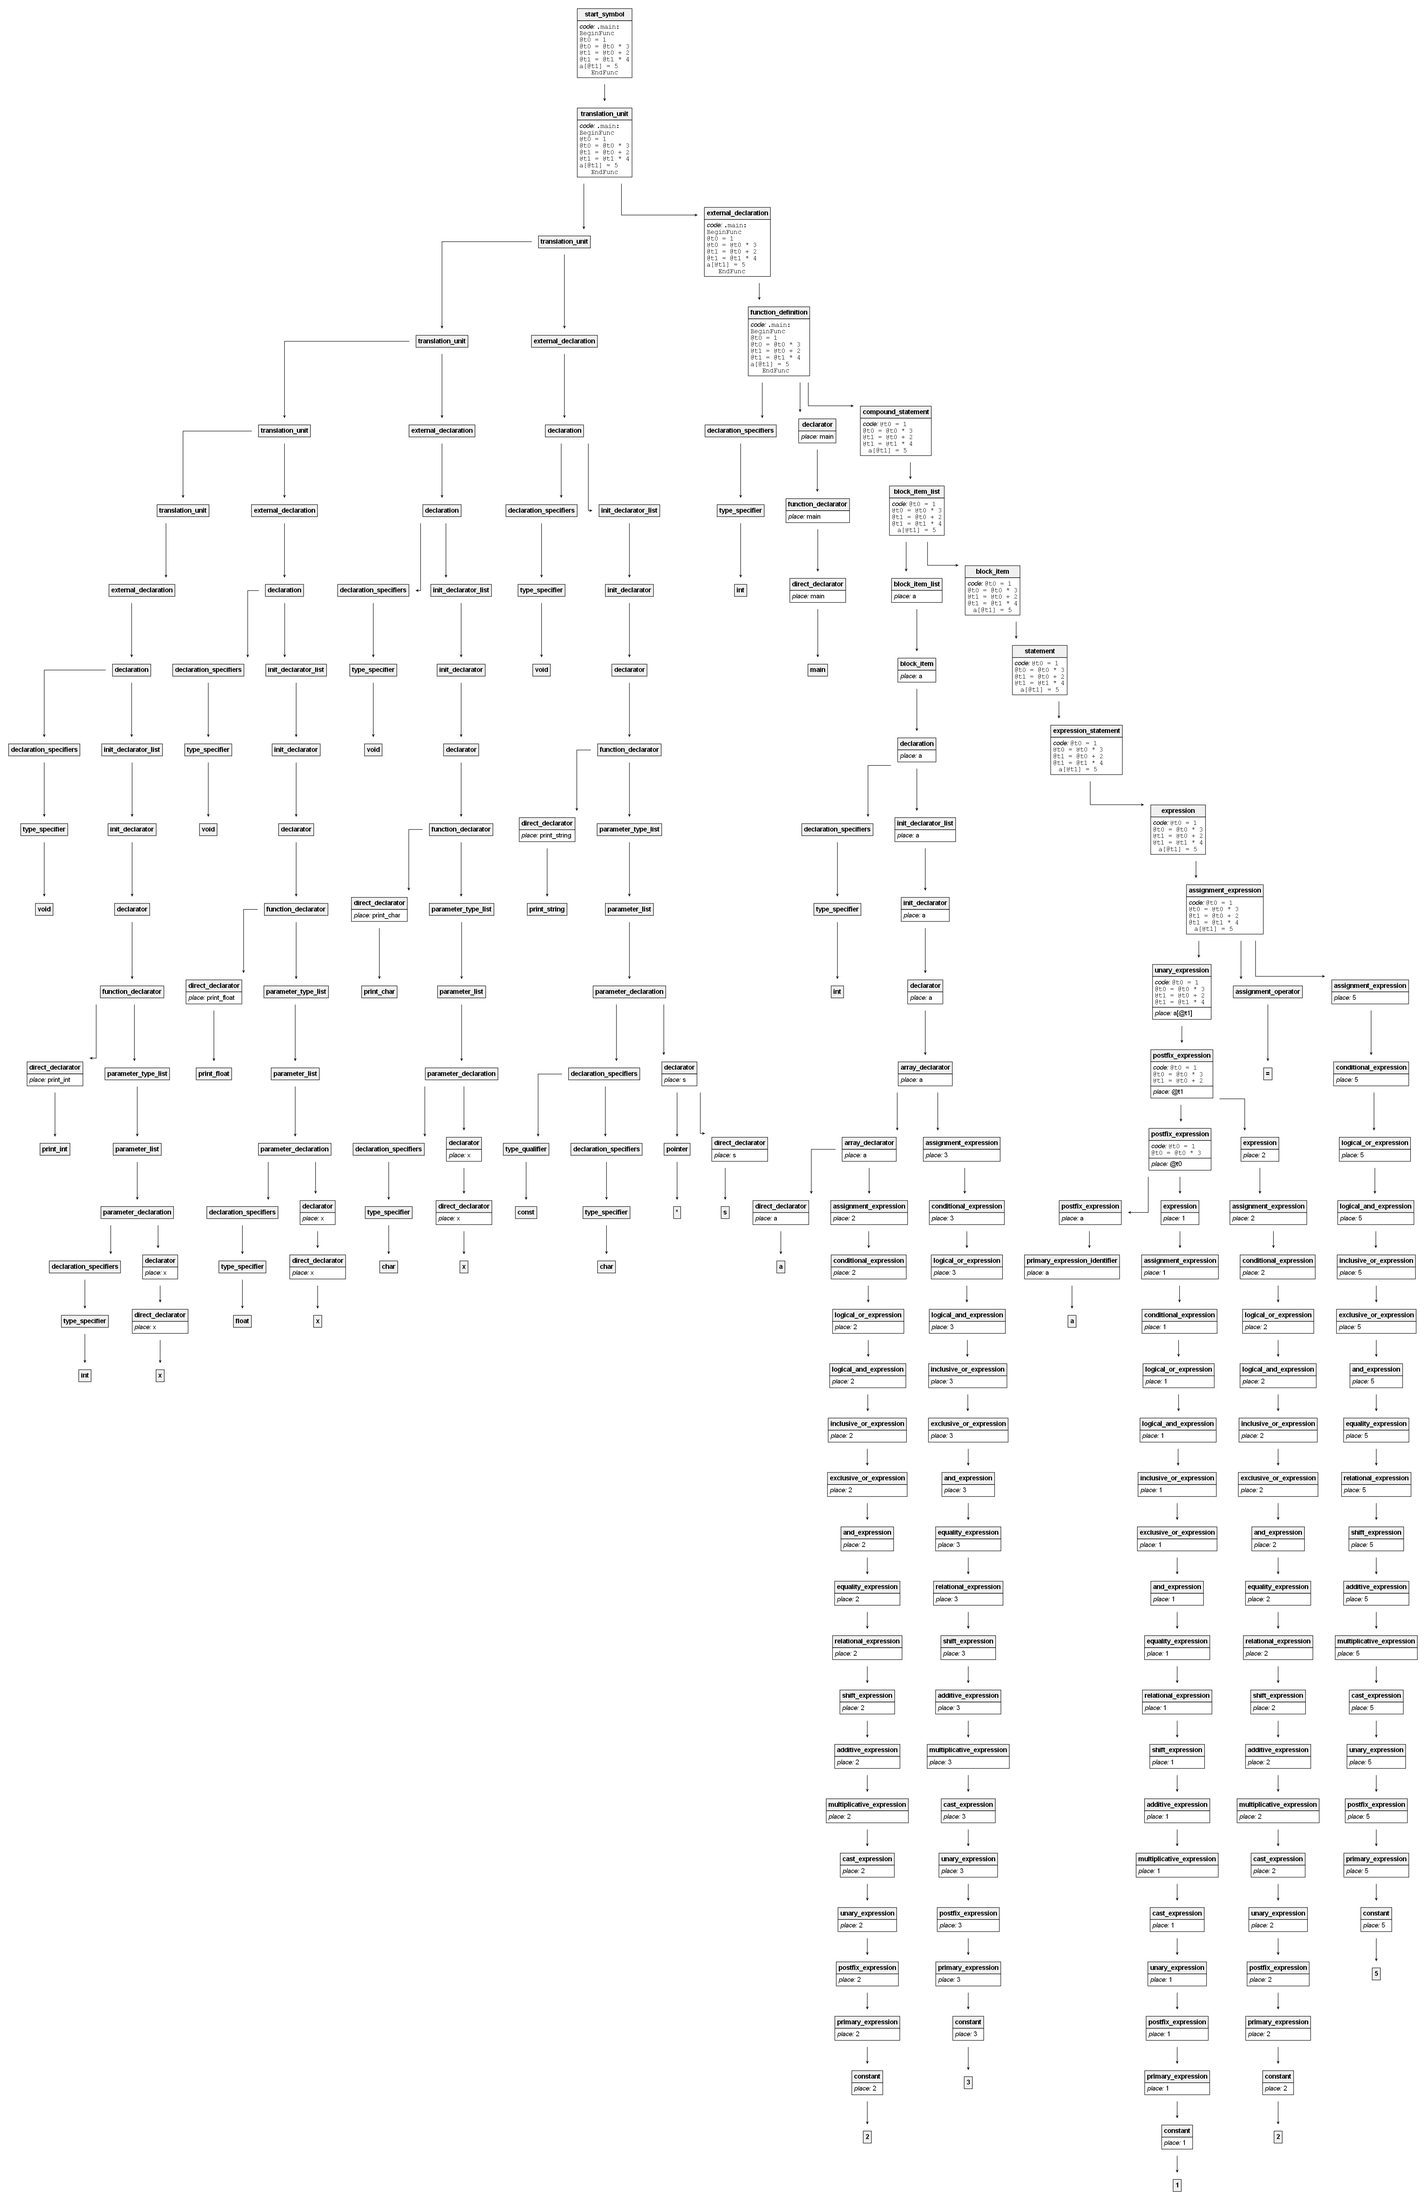
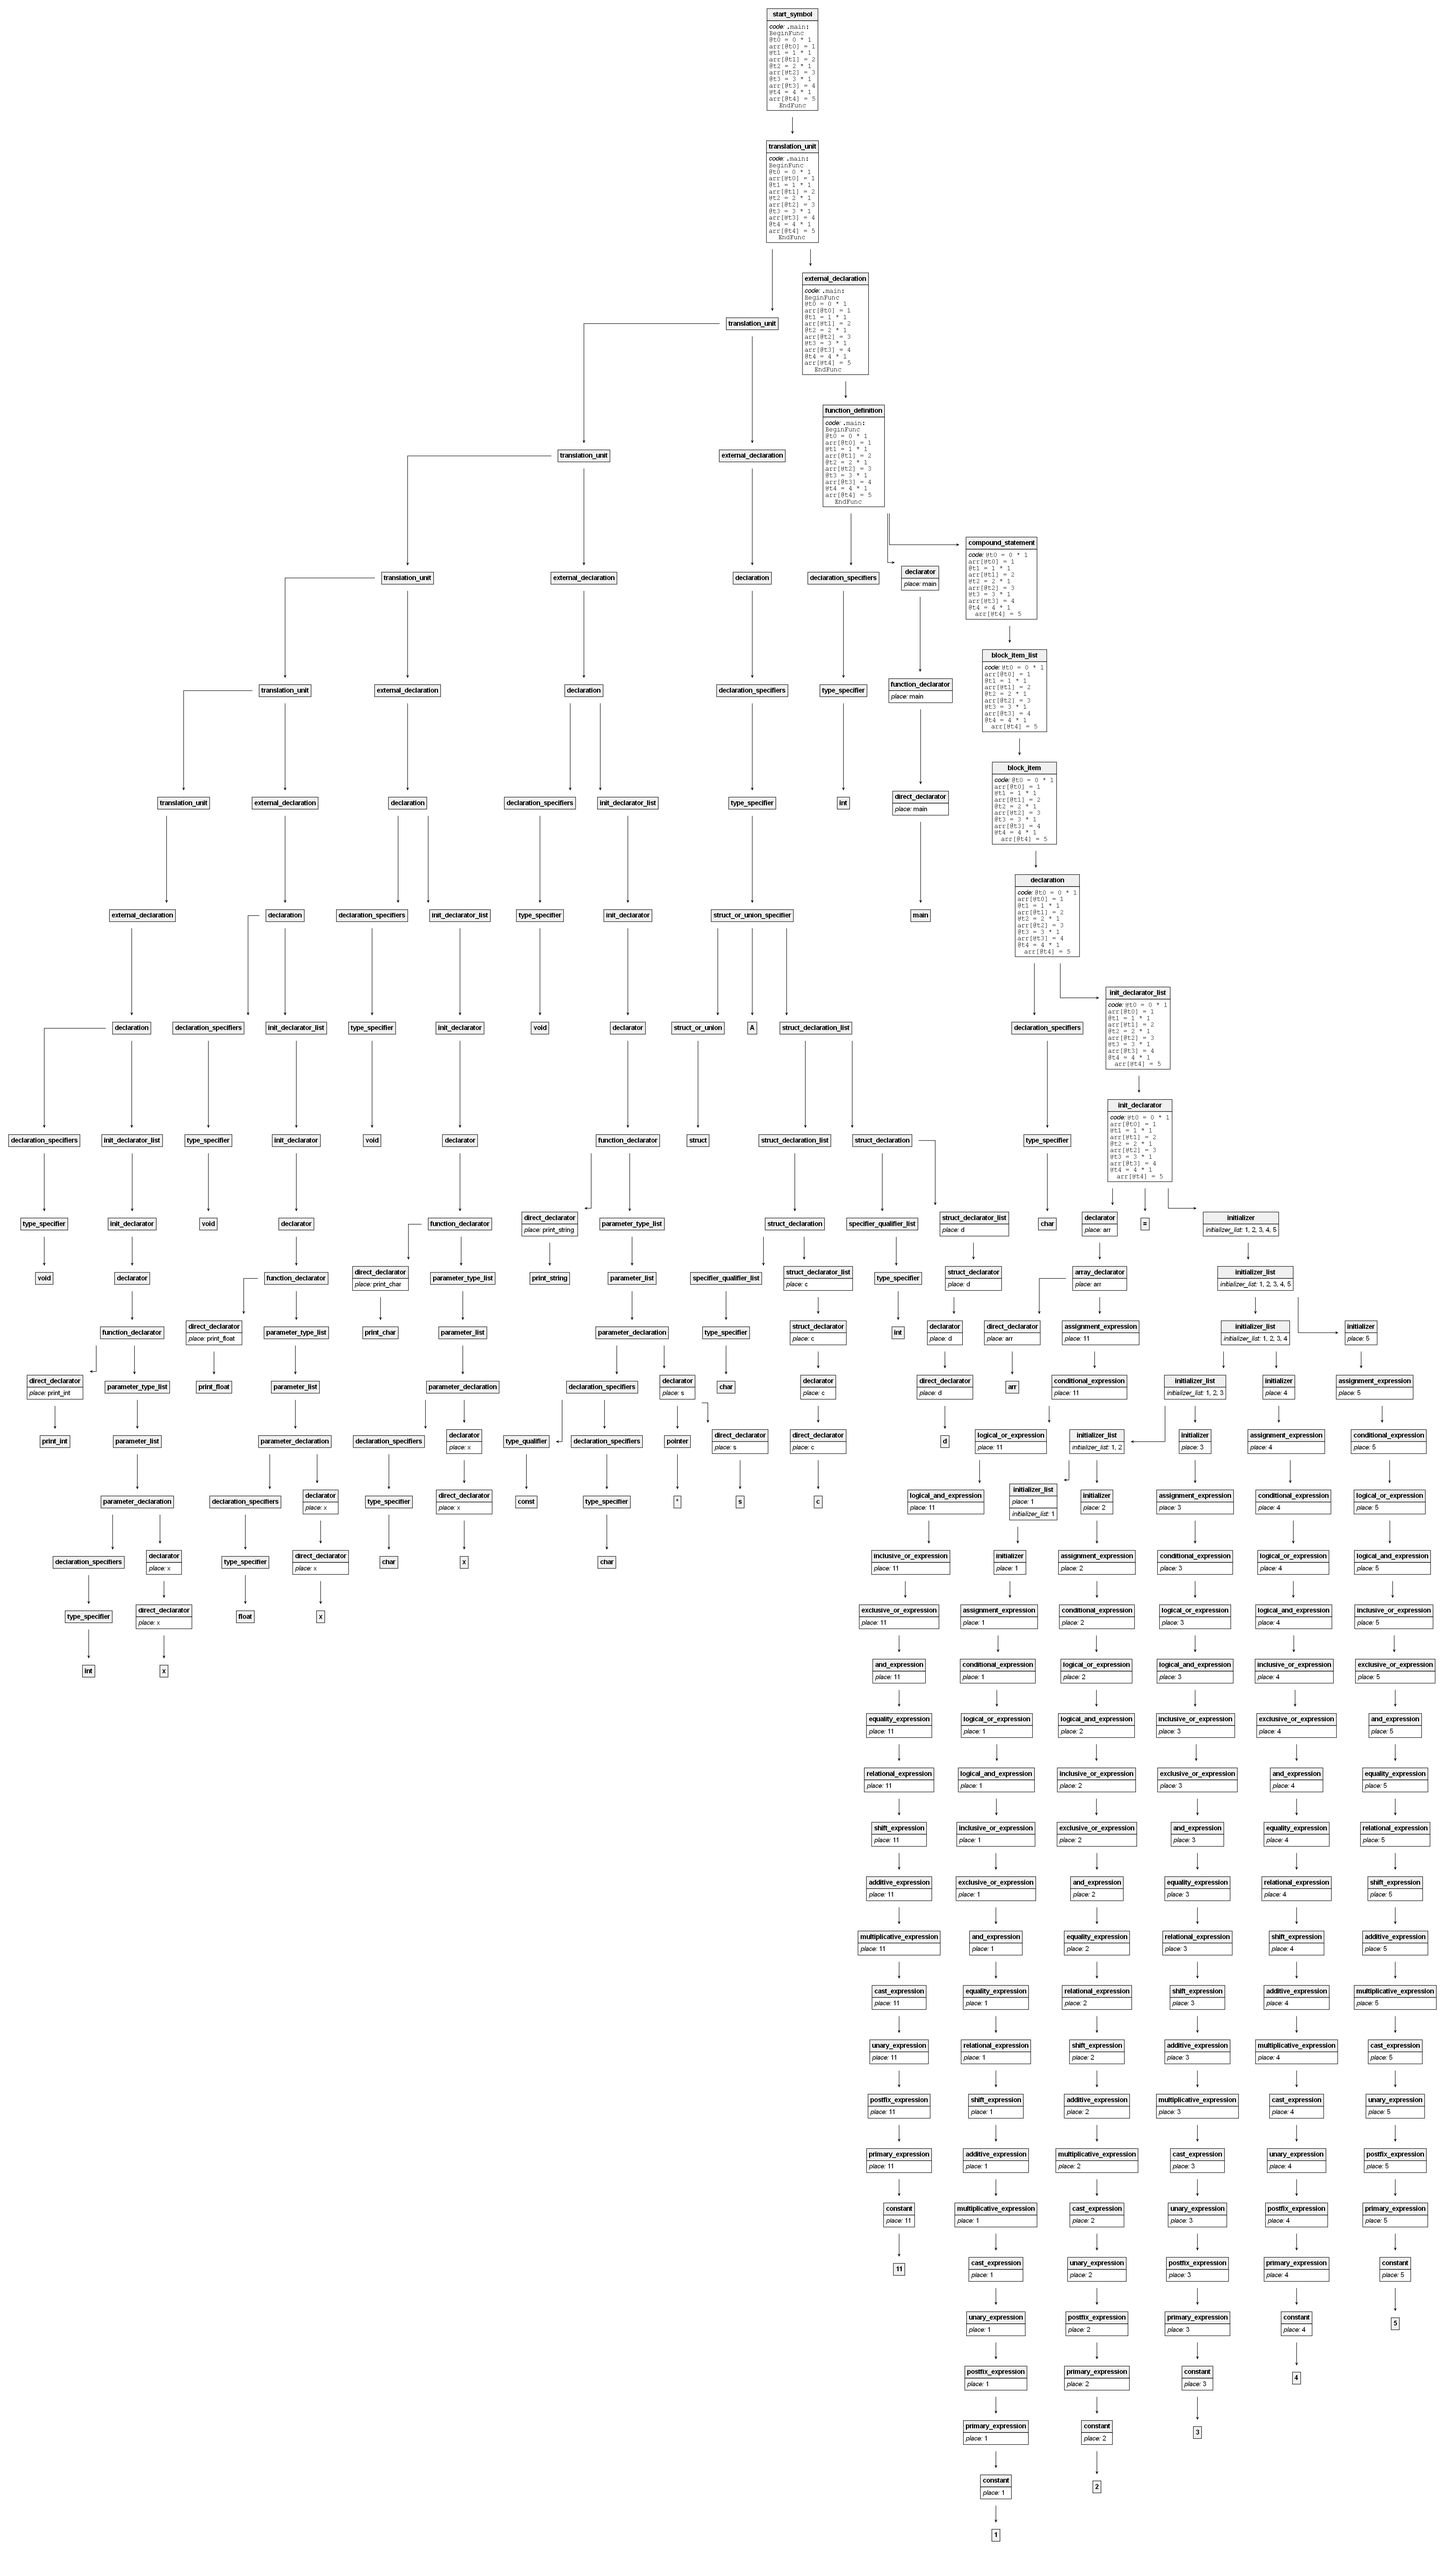
structs IR and initializer and -> operator

diff --git a/src/parser.py b/src/parser.py
@@ -272,9 +272,11 @@ def p_postfix_expression(p):
 
         if symtab.search_struct(struct_object, field_identifier) is None:
             raise Exception(f"The identifier '{field_identifier}' does not exist in the struct {struct_object}")
-
+        
         p[0].vars = [f"{struct_object}.{field_identifier}"]
-        p[0].return_type = symtab.search_struct(struct_object, field_identifier)
+        p[0].return_type = symtab.search_struct(struct_object, field_identifier)[0]
+        
+        print(p[0].return_type)
 
         if "struct" in p[1].name:
             p[0].name = "struct_member"
@@ -283,6 +285,9 @@ def p_postfix_expression(p):
 
         p[0].lvalue = True
         p[0].rvalue = False
+        # IR GENERATION
+        f_offset = symtab.search_struct(struct_object, field_identifier)[1]
+        IrGen.struct_access(p[0].ir,p[1].ir,f_offset)
 
     elif len(p) == 4 and p[2] == '->':
         p[0] = Node("postfix_expression", [p[1], p[3]])
@@ -300,7 +305,7 @@ def p_postfix_expression(p):
             raise TypeError(f"Arrow Operators are used on pointers to object of types structs or unions")
 
         p[0].vars = [f"{struct_object}.{field_identifier}"]
-        p[0].return_type = symtab.search_struct(struct_object, field_identifier)
+        p[0].return_type = symtab.search_struct(struct_object, field_identifier)[0]
 
         if "struct" in type:
             p[0].name = "struct_member"
@@ -309,7 +314,9 @@ def p_postfix_expression(p):
 
         p[0].lvalue = True
         p[0].rvalue = False
-
+        #IR GENERATION
+        f_offset = symtab.search_struct(struct_object, field_identifier)[1]
+        IrGen.struct_access(p[0].ir,p[1].ir,f_offset,True)
     elif len(p) == 4:
         p[0] = Node("postfix_expression", [p[1]])
         p[0].iscall = 1
@@ -1283,6 +1290,7 @@ def p_init_declarator(p):
             kind=str(kind)
         )
         symtab.add_symbol(var_sym)
+        # At this point struct entry is done in symtab
     
     elif symtab.lookup(base_var).kind != "function":
         var_sym = SymbolEntry(
@@ -1300,10 +1308,8 @@ def p_init_declarator(p):
                 kind=str(kind)
             )
             symtab.add_symbol(var_sym)
-
     if len(p) == 4 and kind != "reference":
         checkfunc = not p[3].iscall
-
         if p[0].isbraces:
             if base_var[-1] == ']':
                 for rhs_var in p[0].rhs:
@@ -1319,7 +1325,6 @@ def p_init_declarator(p):
                 size = symtab.get_array_size(base_var)
                 type_size = symtab.get_size(base_type)
                 IrGen.array_initializer_list(p[0].ir, p[1].ir, p[3].ir, size, type_size)
-
             elif ((("struct" in base_type or "union" in base_type) or
             (symtab.lookup(base_type.split(' ')[-1]) is not None and 
             ("struct" in symtab.lookup(base_type.split(' ')[-1]).type or 
@@ -1327,7 +1332,6 @@ def p_init_declarator(p):
                 struct_name = base_type.split(' ')[-1]
                 struct_scope = symtab.lookup(struct_name).child
                 struct_entries = struct_scope.entries
-
                 if len(struct_entries) < len(p[0].rhs):
                     raise Exception("Number of identifiers in struct doesnt match with initialiser list length")
                 
@@ -1342,6 +1346,12 @@ def p_init_declarator(p):
         
                     if implicit_type_compatibility(struct_entry_type, field_type, True):
                         raise Exception(f"Type mismatch in {struct_entry_type} with provided {field_type}")
+                    
+                #IR FOR STRUCT INIT LIST
+                if p[3].ir.initializer_list is None:
+                    raise Exception("Not Allowed Empty Struct Declarators")
+                offset_list = symtab.search_struct_attributes(struct_name)
+                IrGen.struct_init_list(p[0].ir,p[1].ir,offset_list,p[3].ir.initializer_list)
             else:
                 notarray = (p[3].return_type == array_type_decay(p[3].return_type))
                             
@@ -1397,9 +1407,8 @@ def p_init_declarator(p):
                 if not (trim_value(base_type, "const").split(" ")[0] == "enum" and type_ == "int"):
                     if implicit_type_compatibility(base_type, type_, True):
                         raise TypeError(f"Type mismatch in declaration of {p[0].vars[0]}\n| base_type = {base_type} |\n| rhs_type = {type_} |")
-        
             IrGen.assignment(p[0].ir, p[1].ir, p[3].ir,p[0].vars[0])
-
+    
     p[0].is_address = False
 
 
@@ -2326,7 +2335,7 @@ def p_error(p):
     exit(0)
     
 # Build parser
-parser = yacc.yacc(debug=True)
+parser = yacc.yacc(debug=False)
 
 def parseFile(filename, ogfilename, treedir, symtabdir, irtreedir, graphgen=False,irgen=True):
     global IrGen

diff --git a/src/ir_codegen.py b/src/ir_codegen.py
@@ -1,5 +1,6 @@
 from .ir import IR
 import os
+import copy
 DEFAULT_OUTPUT_DIRECTORY = "generatedIR"
 
 class IRGenerator:
@@ -411,7 +412,7 @@ class IRGenerator:
         ir0.code = ir1.code
 
     def initializer_list(self, ir0, ir1, ir2):
-        ir0.initializer_list = ir1.initializer_list
+        ir0.initializer_list = copy.deepcopy(ir1.initializer_list)
         ir0.initializer_list.append(ir2.place)
         ir0.code = self.join(ir1.code, ir2.code)
 
@@ -478,4 +479,23 @@ class IRGenerator:
             self.backpatch(ir2,c,temp)
         ir0.code = self.join(ir1.code,gen1,ir2.code,gen3)
         return
+    def struct_access(self,ir0,ir1,offset,isArrow=False):
+        ir0.place = self.new_temp()
+        if isArrow:
+            gen1 = f"{ir0.place} = {ir1.place}"
+        else:
+            gen1 = f"{ir0.place} = & {ir1.place}"
+        gen2 = f"{ir0.place} = {ir0.place} + {offset}"
+        # gen3 = f"*{ir0.place}"
+        ir0.place = '*'+ir0.place
+        ir0.code = self.join(gen1,gen2)
+    def struct_init_list(self,ir0,ir1,offset_list,init_list):
+        ir0.place = self.new_temp()
+        gen1 = f"{ir0.place} = & {ir1.place}"
+        for i in range(0,len(init_list)):
+            #size of this is always <= size of offset since we have done semantic checks
+            gen_temp = f"{ir0.place} = {ir0.place} + {offset_list[i]}"
+            gen_temp2 = f"*{ir0.place} = {init_list[i]}"
+            gen1 = self.join(gen1,gen_temp,gen_temp2)
+        ir0.code = gen1
     

diff --git a/src/utils.py b/src/utils.py
@@ -76,7 +76,7 @@ def get_type_from_var(var, deref_count, ref_count, symtab, kind_check=None):
         
         else:
             struct_scope, identifier = var.rsplit(".", 1)
-            entry_type = symtab.search_struct(struct_scope, identifier)
+            entry_type = symtab.search_struct(struct_scope, identifier)[0]
             if entry_type is None:
                 raise Exception(f"identifier |{identifier}| does not exist in the struct |{struct_scope}|")
             
@@ -134,7 +134,7 @@ def lookup_symbol(var, symtab):
     is_struct, data = clean_var(var)
     if is_struct:
         struct_name, field_name = data
-        entry = symtab.search_struct(struct_name, field_name)
+        entry = symtab.search_struct(struct_name, field_name)[0]
         if entry is None:
             raise ValueError(f"identifier {field_name} does not exist in the struct {struct_name}")
         return entry

diff --git a/src/symtab_new.py b/src/symtab_new.py
@@ -526,10 +526,18 @@ class SymbolTable:
             
         for entry in current_scope.entries:
             if entry.name == identifier:
-                return entry.type
+                return entry.type ,entry.offset
 
         return None
-
+    def search_struct_attributes(self,struct_name):
+        #WILL RETURN A LIST OF OFFSETS IN THE STRUCT
+        key = symtab.lookup(struct_name)
+        if key is None:
+            raise Exception("Invalid Strcut Access Made")
+        offsets = []
+        for e in key.child.entries:
+            offsets.append(e.offset)
+        return offsets
     def __str__(self):
         """
             print the symbol table object

diff --git a/src/tree.py b/src/tree.py
@@ -118,7 +118,7 @@ class Node:
         node_label.append(f'<tr><td bgcolor="#f0f0f0" align="center"><b>{escape_html(self.type)}</b></td></tr>')
         
         # Process IR attributes
-        if self.ir and any([self.ir.place, self.ir.code]):
+        if self.ir:
             ir_info = []
             
             # Generic attribute formatter

diff --git a/stress_testing/bc976e63-e02a-4079-abc1-6f2f70774cf1.c b/stress_testing/bc976e63-e02a-4079-abc1-6f2f70774cf1.c
@@ -3,8 +3,9 @@ struct A{
      int d;
 };
 int main() {
-     char arr [11] = {1,2,3,4,5};
+     struct A *a;
      // int x = a.d + 1;
-     // a->d = 11;
+     a->d = 11;
+     a->c = 'x';
      // int arr [5] = {1,23,11};
 }

diff --git a/stress_testing/c872eb4e-47fa-4010-b510-68e6895cd426.c b/stress_testing/c872eb4e-47fa-4010-b510-68e6895cd426.c
@@ -1,0 +1,11 @@
+struct A{
+     int x;
+     int y;
+     char c;
+     int z ;
+};
+int main() {
+     struct A a = {1,3,'S',17};
+     // a->y;
+     // int arr [5] = {1,23,11};
+}

diff --git a/stress_testing/d06c306e-a13f-4836-92ca-19741e902636.c b/stress_testing/d06c306e-a13f-4836-92ca-19741e902636.c
@@ -1,0 +1,8 @@
+struct A{
+     int x;
+     int y;
+};
+int main() {
+     struct A a;
+     a.x =1;
+}
